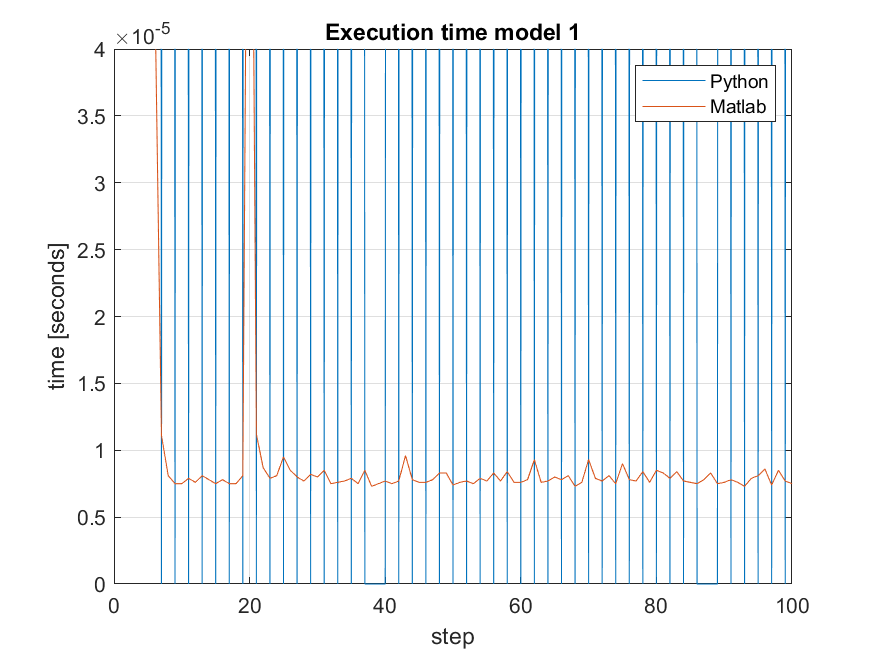
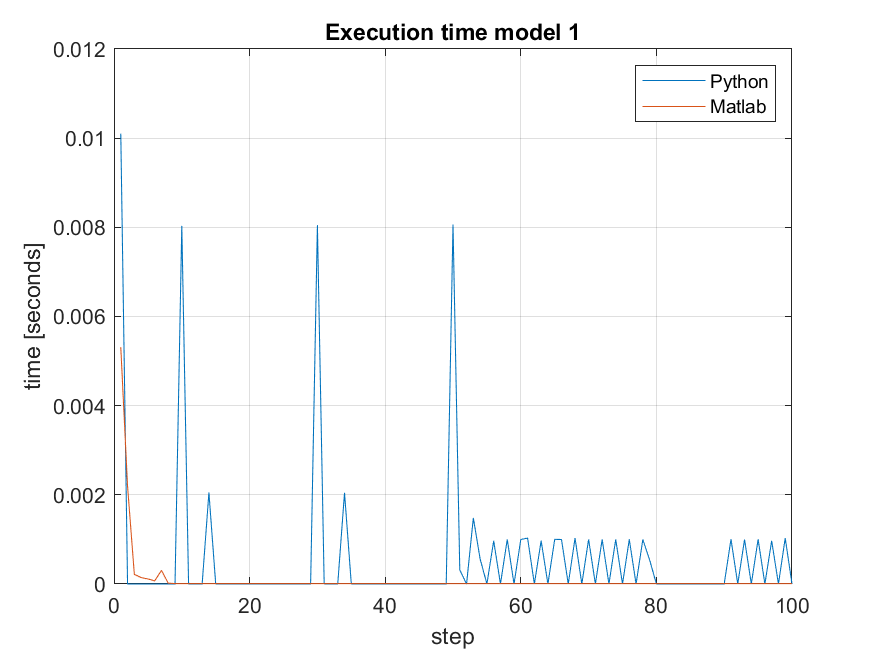
made plots for while iterations

Changed region(s): [[0.0309, 0.0305, 0.9257, 0.9146], [0.0617, 0.1524, 0.1234, 0.2134]]

diff --git a/PythonCode/plots.py b/PythonCode/plots.py
@@ -4,27 +4,40 @@ import matplotlib.pyplot as plt
 
 if (MODEL ==1):
     exe_time = np.matrix(tosave1)
+    iterations = while_iterations1
 if (MODEL ==2):
     exe_time = np.matrix(tosave2) 
-
+    iterations = while_iterations2
 
 time_list = []
-
+iteration_list = []
 #as matlab returned NaN when reading the first and last number, I add a buffer in both ends
 time_list.append("buff1")
+iteration_list.append("buff1")
 
 for i in range(100):
    time_list.append(exe_time[0, i])
+   iteration_list.append(iterations[i])
 
 time_list.append("buff2")
-
+iteration_list.append("buff1")
 
 if (MODEL == 1):
     file = open("..//Matlab_kode//execution_timeM1.txt", "w")
     file.write(str((time_list)))
+
+    file = open("..//Matlab_kode//while_iterations1.txt", "w")
+    file.write(str((iteration_list)))
+
+    print(iteration_list)
     print(time_list)
 
 if (MODEL == 2):
     file = open("..//Matlab_kode//execution_timeM2.txt", "w")
     file.write(str((time_list)))
+
+    file = open("..//Matlab_kode//while_iterations2.txt", "w")
+    file.write(str((iteration_list)))
+
+    print(iteration_list)
     print(time_list)

diff --git a/Matlab_kode/MPClambda2sbrybtNEWEST_run.m b/Matlab_kode/MPClambda2sbrybtNEWEST_run.m
@@ -13,9 +13,11 @@ tend = 100;
 if (Model == 1)
     xinit = [5;-2];
     tosave1 = zeros(1,tend);
+    while_iterations1 = zeros(1, 100);
 elseif (Model == 2)
     xinit = 1.0*[25.5724;25.3546;9.7892;0.2448]; %(1.0: Feasible. 1.04 Feasible. 1.1: Infeasible, (but cycles indefinitely _No, not with updated limits on qdiv).  qdiv not very small. 
                                                  %1.5: Infeasibility caught through qdiv \approx 0. 
+    while_iterations2 = zeros(1, 100);                                         
 elseif (Model ==3)
   %  xinit = 0.1*randn(nx,1);
   load xinit3
@@ -53,7 +55,7 @@ Qmat0i = speye(nc);
 
 tt = tic;
 %for ik = 1:1
-while_iterations = zeros(1, 100);
+
 
 for ik = 1:tend
     %ik;
@@ -134,8 +136,13 @@ for ik = 1:tend
         end
         
     end
-    while_iterations(1,ik) = ix;
     tk = toc(to);
+    if Model == 1
+        while_iterations1(1,ik) = ix;
+    end
+    if Model == 2
+        while_iterations2(1,ik) = ix;
+    end
     if (feasflag == 0)
         break
     end

diff --git a/PythonCode/MPC_run.py b/PythonCode/MPC_run.py
@@ -39,7 +39,8 @@ hifu = -hif[0:nu, :]
 actset0 = np.zeros((nc,1))
 Qmat0i = np.identity(nc) #denne er overflødig siden vi setter dne i for loopen
 
-while_iterations = [] #for counting the while iterations in each step
+while_iterations1 = [] #for counting the while iterations in each step
+while_iterations2 = []
 
 for i in range(tend):
     start = time.time_ns()    
@@ -116,8 +117,10 @@ for i in range(tend):
     
     end = time.time_ns()
     tk = end-start
-    while_iterations.append(ix)
-    
+    if (MODEL==1):
+        while_iterations1.append(ix)
+    if (MODEL==2):
+        while_iterations2.append(ix)
     if (feasflag == 0):
         break
     
@@ -135,7 +138,7 @@ for i in range(tend):
 
     if (MODEL ==2):
         tosave2[0, i] = tk #this is in nano seconds
-        print(while_iterations)
+        
 
 print("done")
 

diff --git a/PythonCode/MPC_setup.py b/PythonCode/MPC_setup.py
@@ -9,7 +9,7 @@ def deb(A):
     print("dimention:")
     print(A.shape)
 
-MODEL = 1
+MODEL = 2
 
 
 

diff --git a/Matlab_kode/MPC_setup.m b/Matlab_kode/MPC_setup.m
@@ -1,4 +1,4 @@
-Model = 1;
+Model = 2;
 
 if (Model == 1)
     % Discrete double integrator
